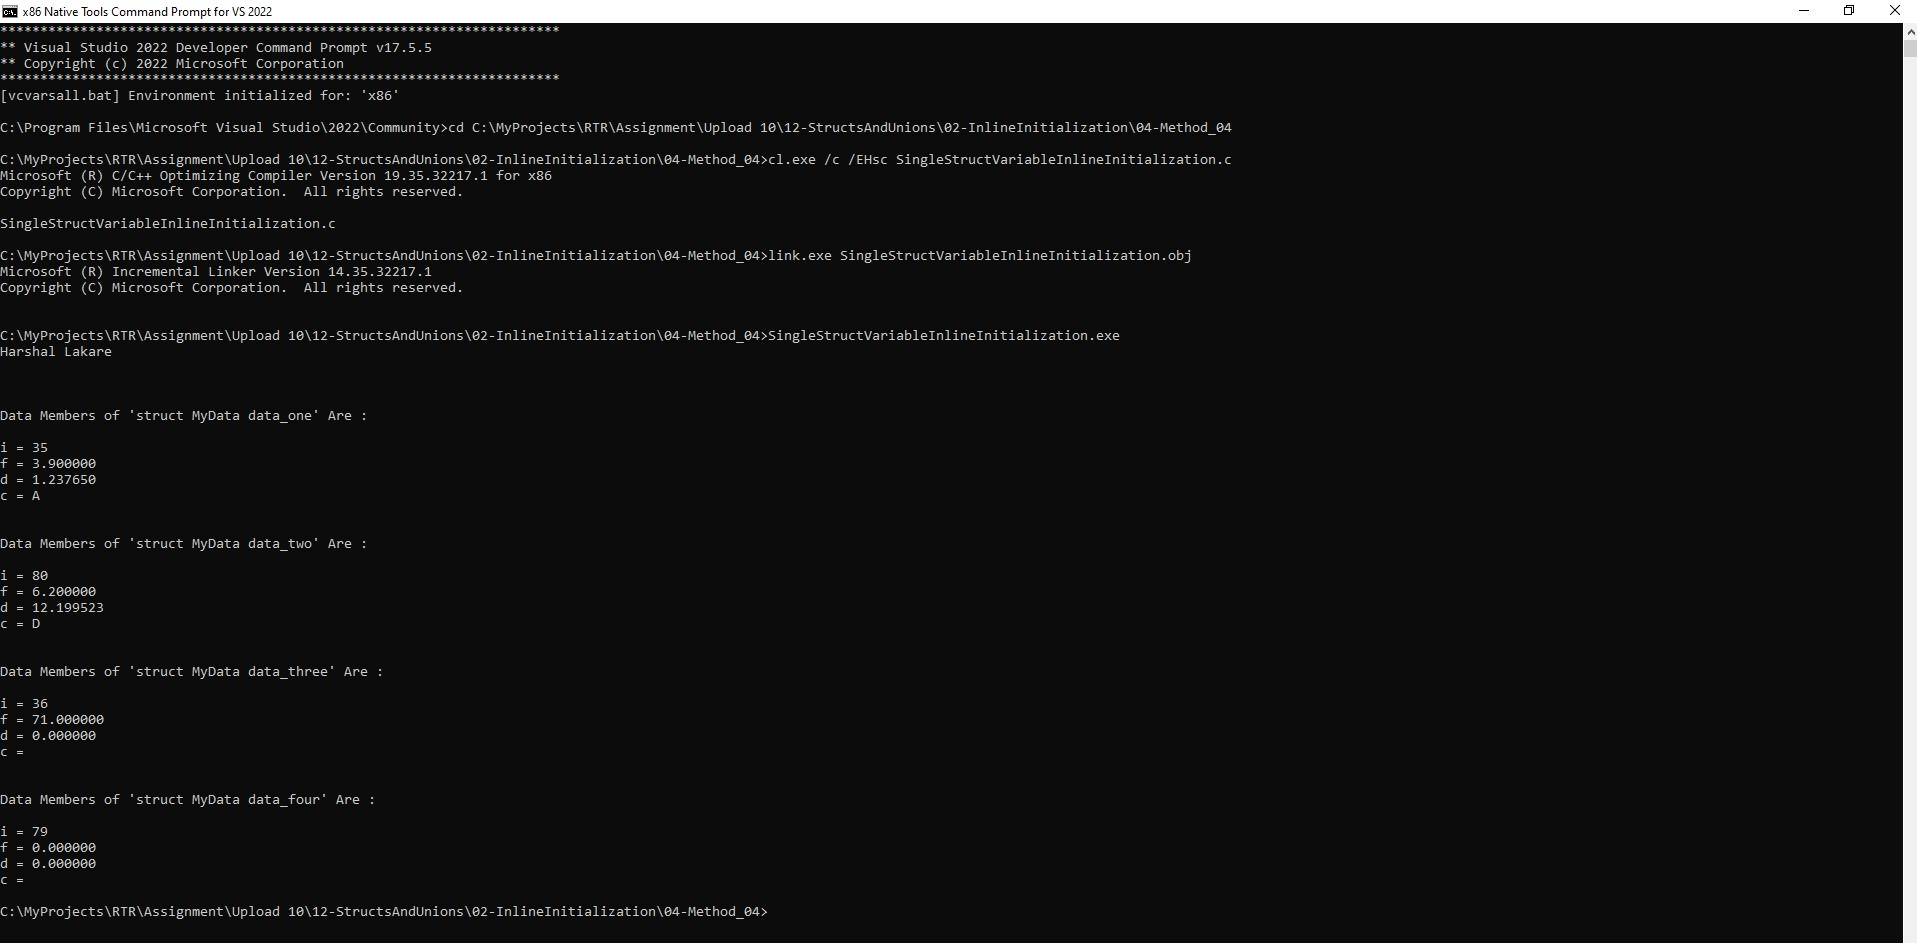
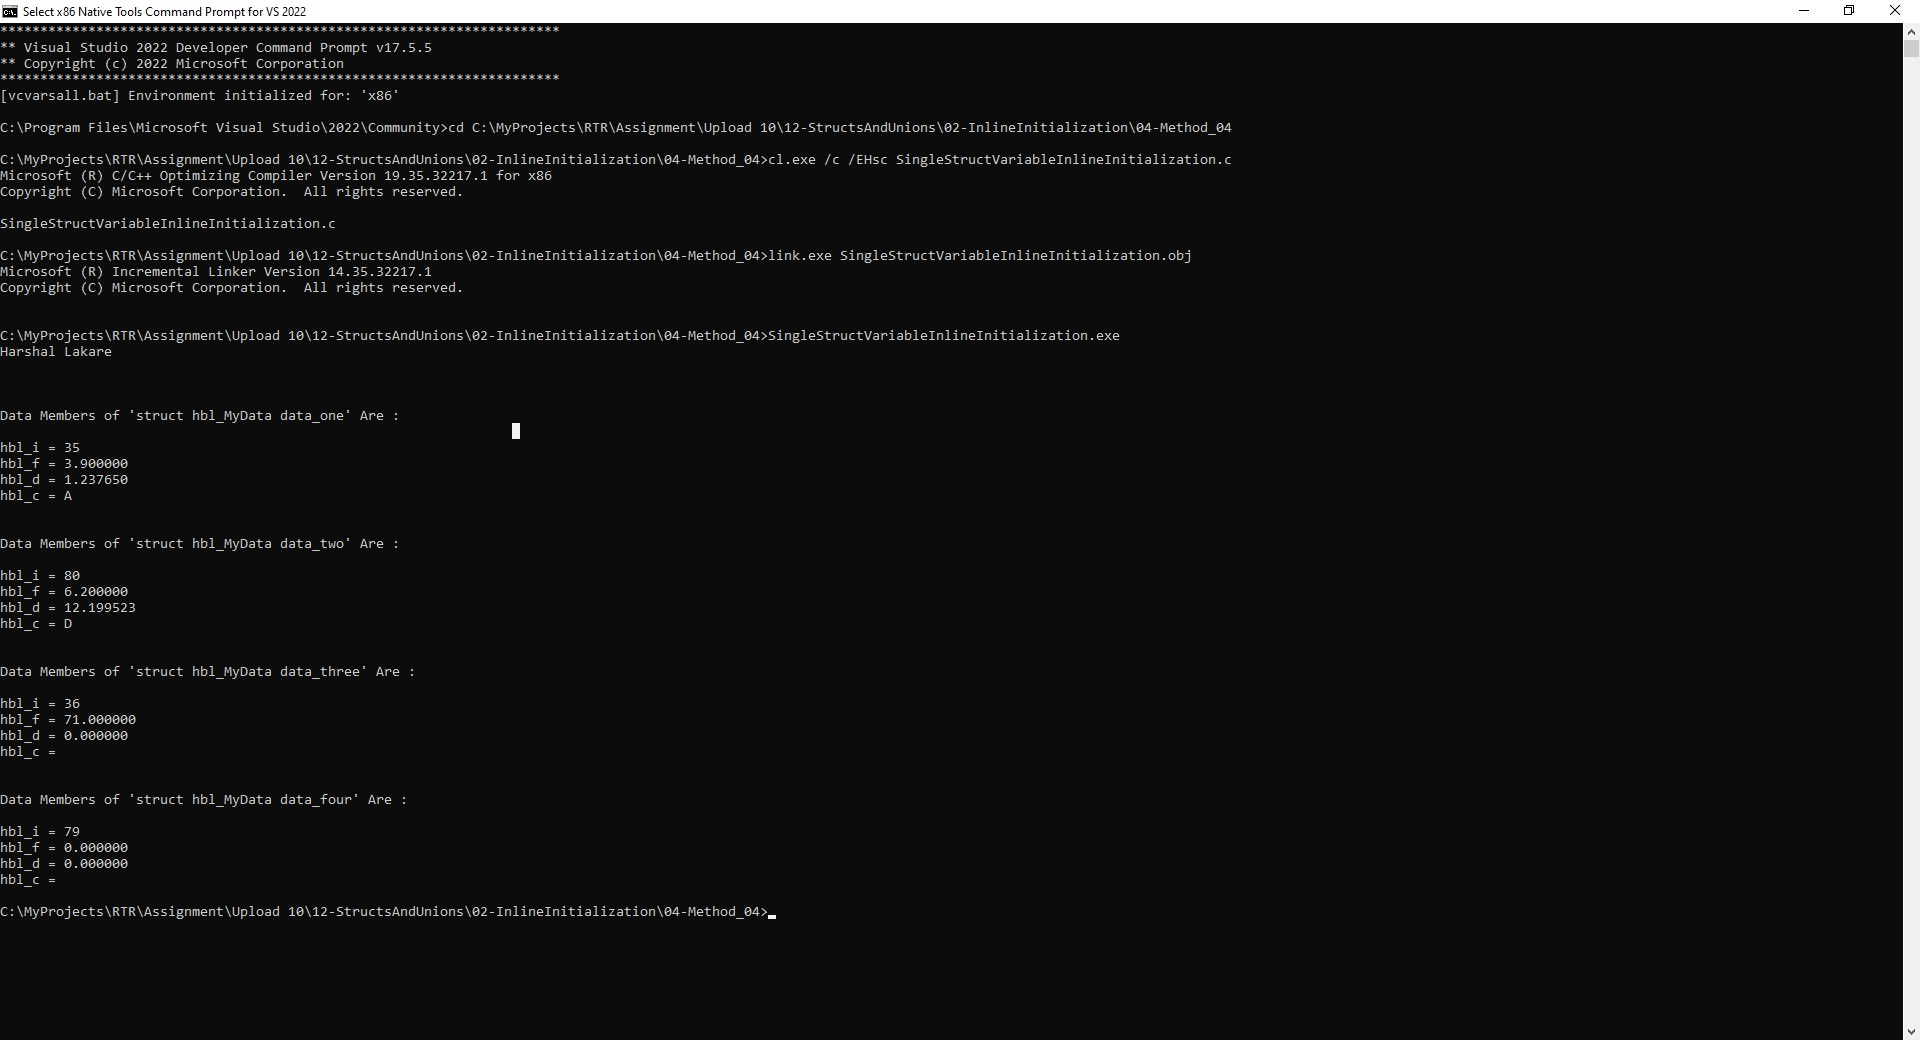
Single Struct Variable Inline Initialization- Method 4

Changed region(s): [[0.0, 0.0, 1.0, 1.0], [0.0, 0.9533, 0.4001, 0.9841], [0.0923, 0.7073, 0.1847, 0.7381]]

diff --git a/Assignment/Upload 10/12-StructsAndUnions/02-InlineInitialization/04-Method_04/SingleStructVariableInlineInitialization.c b/Assignment/Upload 10/12-StructsAndUnions/02-InlineInitialization/04-Method_04/SingleStructVariableInlineInitialization.c
@@ -1,12 +1,12 @@
 #include<stdio.h>
 
 //Defining Struct 
-struct MyData
+struct hbl_MyData
 {
-	int i; 
-	float f; 
-	double d; 
-	char c;
+	int hbl_i;
+	float hbl_f;
+	double hbl_d;
+	char hbl_c;
 
 };
 
@@ -14,59 +14,59 @@ int main(void)
 {
 	//variable declarations 
 
-	//35 will be assigned to 'i' of 'data_one'
-	//3.9 will be assiged to 'f' of 'data_one'
-	//1.23765 will be assiged to 'd' of 'data_one'
-	// 'A' will be assigned to 'c' of 'data_one'
-	struct MyData data_one = {35,3.9f, 1.23765,'A'}; //Inline Initialization 
+	//35 will be assigned to 'hbl_i' of 'data_one'
+	//3.9 will be assiged to 'hbl_f' of 'data_one'
+	//1.23765 will be assiged to 'hbl_d' of 'data_one'
+	// 'A' will be assigned to 'hbl_c' of 'data_one'
+	struct hbl_MyData hbl_data_one = {35,3.9f, 1.23765,'A'}; //Inline Initialization 
 
 	// 'P' will be assiged to 'i' of 'data_two' ... but 'P' is a character (char) and 'i' is an integer ....so 'P' is converted int o it decimal interger ASCII value (80) and 80 is asigned to 'i' of data_two
 	//6.2 will be assiged to 'f' of data_two 
 	//112.199523 will be assiged to 'd' of 'data_two'
 	//68 will be assiged to 'c' of 'data_two'....but 68 is an interger (int) and 'c' is a 'char' .... soi 68 os considered as a decimal ASCII value and its corressponding character ('D') is assigned to 'c' of data_two 
-	struct MyData data_two = { 'P', 6.2f, 12.199523,68 }; //Inline Initialization 
+	struct hbl_MyData hbl_data_two = { 'P', 6.2f, 12.199523,68 }; //Inline Initialization 
 
 	//36 will be assiged to 'i' of 'data_three'
 	//'G' is 'char', but 'f' of 'data_three' is 'float'..hence 'G' is converted to its decimal integer ASCII value (71) and thgis in turn is converted to 'float' (71.000000) and then it will be assiged to 'f' of data_three
 	//0.00000000 will be assiged to 'd' of data_three 
 	//No Character will be assiged to 'c' of 'data_three' 
-	struct MyData data_three = {36, 'G'}; //Inline Initialization 
+	struct hbl_MyData hbl_data_three = {36, 'G'}; //Inline Initialization 
 
 	//79 will be asisged to 'i' of 'data_four'
 	//0.000000 will be assiged to 'f' of 'data_four'
 	//0.000000 will be assiged to 'c' of 'data_four' 
-	struct MyData data_four = { 79 }; //Inline Initialization 
+	struct hbl_MyData hbl_data_four = { 79 }; //Inline Initialization 
 
 	//code 
 	//Displaying Values of the data member of 'struct MyData'
 	printf("Harshal Lakare \n\n");
 	printf("\n\n");
-	printf("Data Members of 'struct MyData data_one' Are : \n\n");
-	printf("i = %d\n", data_one.i);
-	printf("f = %f\n", data_one.f);
-	printf("d = %lf\n", data_one.d);
-	printf("c = %c\n", data_one.c);
+	printf("Data Members of 'struct hbl_MyData data_one' Are : \n\n");
+	printf("hbl_i = %d\n", hbl_data_one.hbl_i);
+	printf("hbl_f = %f\n", hbl_data_one.hbl_f);
+	printf("hbl_d = %lf\n", hbl_data_one.hbl_d);
+	printf("hbl_c = %c\n", hbl_data_one.hbl_c);
 
 	printf("\n\n");
-	printf("Data Members of 'struct MyData data_two' Are : \n\n");
-	printf("i = %d\n", data_two.i);
-	printf("f = %f\n", data_two.f);
-	printf("d = %lf\n", data_two.d);
-	printf("c = %c\n", data_two.c);
+	printf("Data Members of 'struct hbl_MyData data_two' Are : \n\n");
+	printf("hbl_i = %d\n", hbl_data_two.hbl_i);
+	printf("hbl_f = %f\n", hbl_data_two.hbl_f);
+	printf("hbl_d = %lf\n", hbl_data_two.hbl_d);
+	printf("hbl_c = %c\n", hbl_data_two.hbl_c);
 
 	printf("\n\n");
-	printf("Data Members of 'struct MyData data_three' Are : \n\n");
-	printf("i = %d\n", data_three.i);
-	printf("f = %f\n", data_three.f);
-	printf("d = %lf\n", data_three.d);
-	printf("c = %c\n", data_three.c);
+	printf("Data Members of 'struct hbl_MyData data_three' Are : \n\n");
+	printf("hbl_i = %d\n", hbl_data_three.hbl_i);
+	printf("hbl_f = %f\n", hbl_data_three.hbl_f);
+	printf("hbl_d = %lf\n", hbl_data_three.hbl_d);
+	printf("hbl_c = %c\n", hbl_data_three.hbl_c);
 
 	printf("\n\n");
-	printf("Data Members of 'struct MyData data_four' Are : \n\n");
-	printf("i = %d\n", data_four.i);
-	printf("f = %f\n", data_four.f);
-	printf("d = %lf\n", data_four.d);
-	printf("c = %c\n", data_four.c);
+	printf("Data Members of 'struct hbl_MyData data_four' Are : \n\n");
+	printf("hbl_i = %d\n", hbl_data_four.hbl_i);
+	printf("hbl_f = %f\n", hbl_data_four.hbl_f);
+	printf("hbl_d = %lf\n", hbl_data_four.hbl_d);
+	printf("hbl_c = %c\n", hbl_data_four.hbl_c);
 
 
 	return(0);
